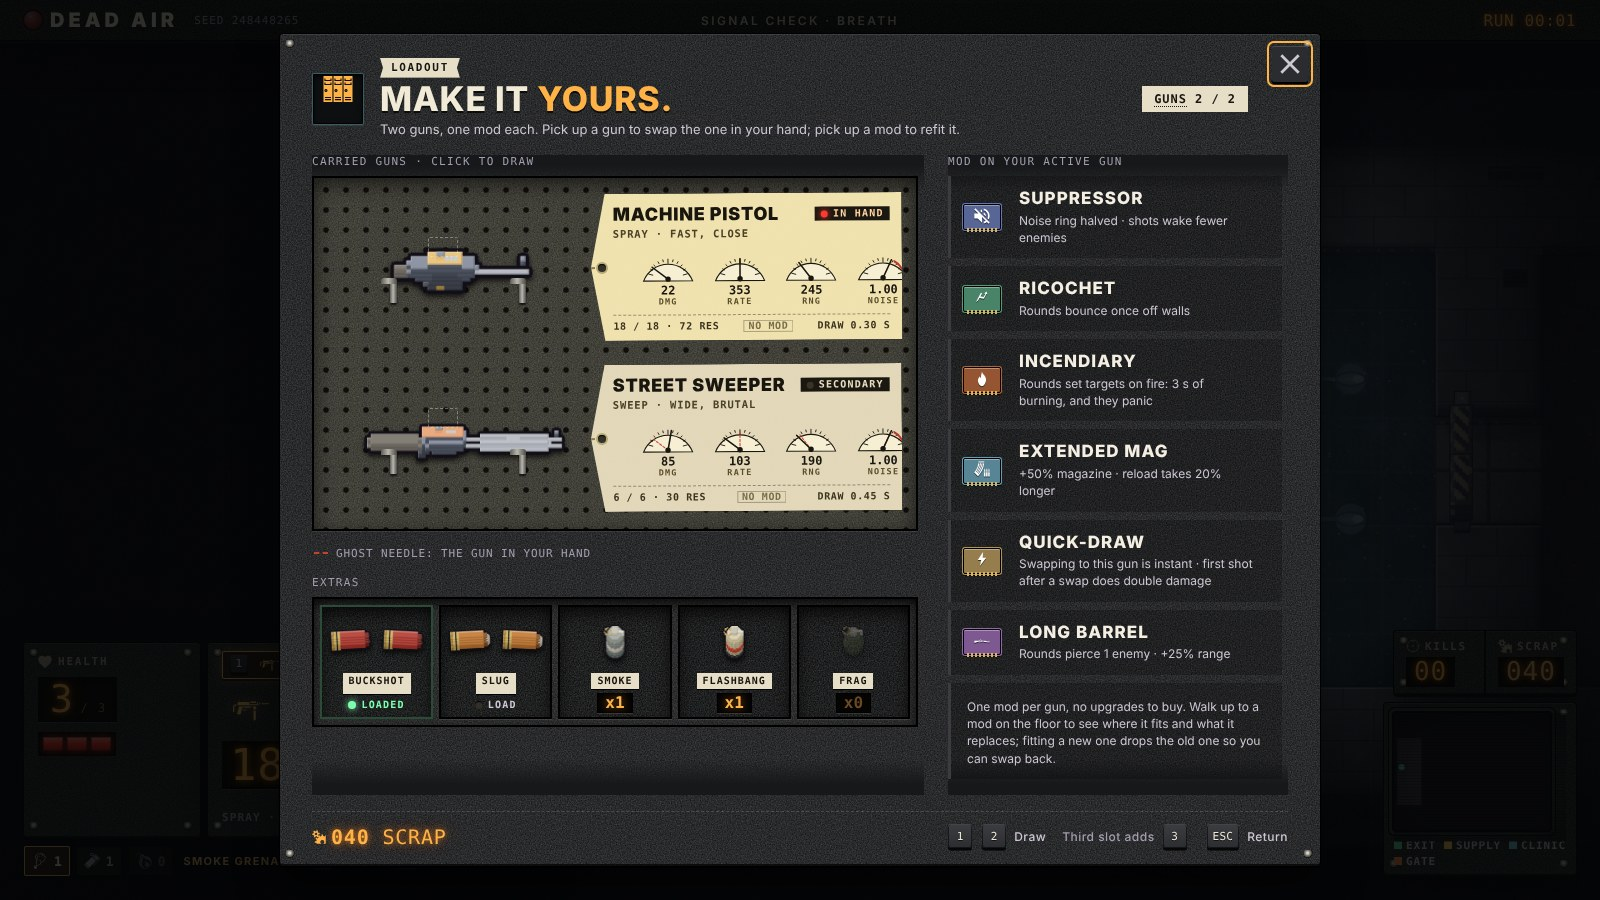
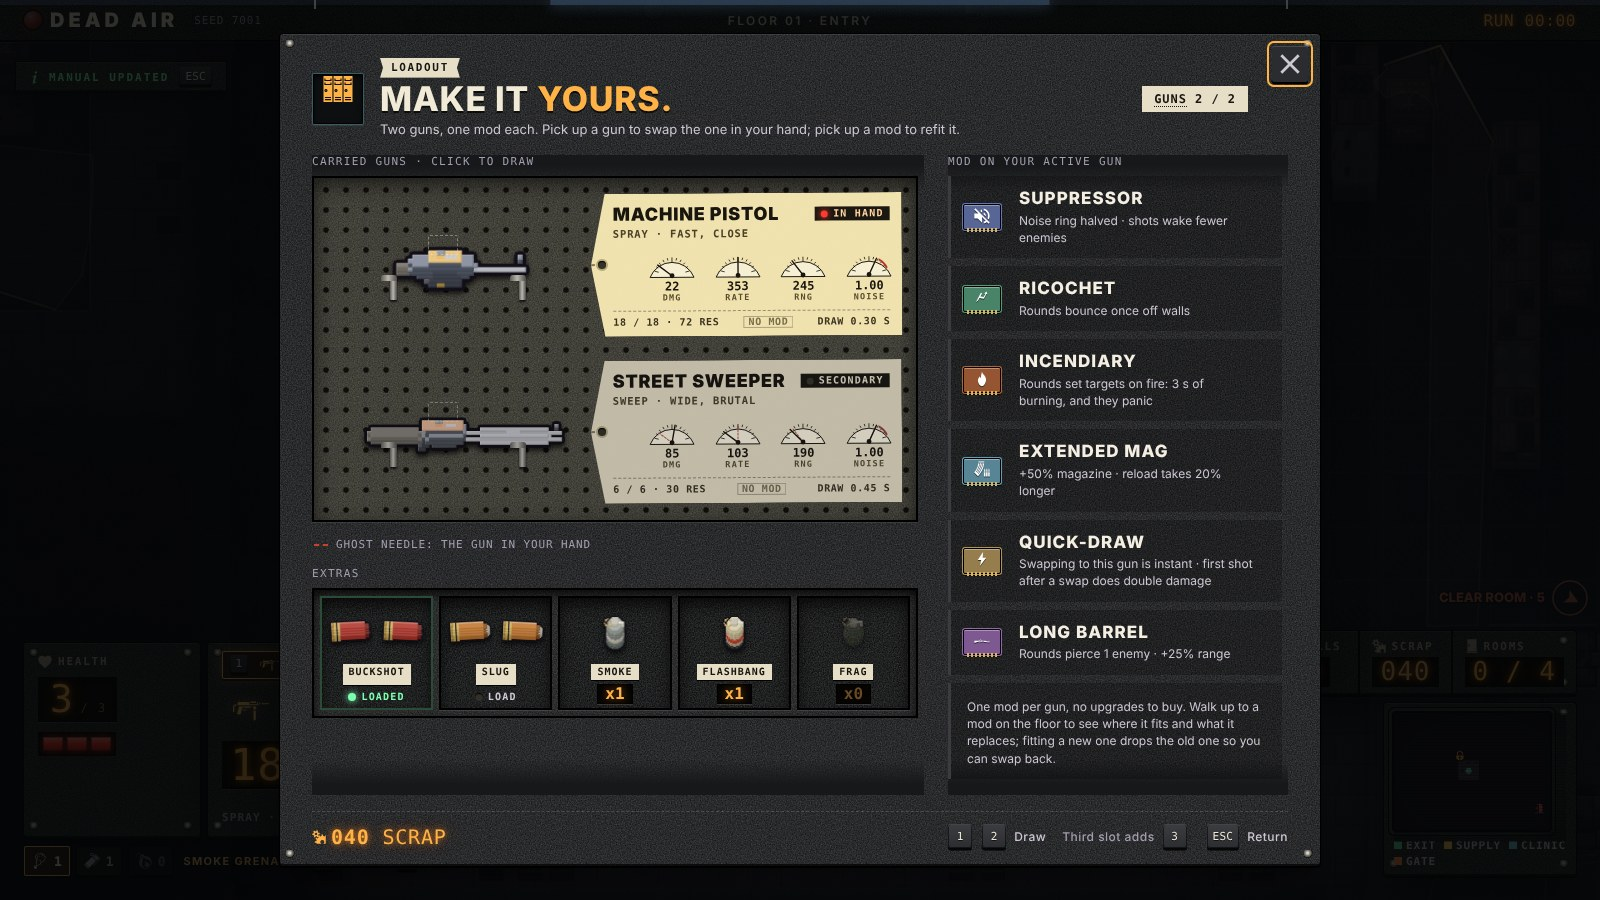
Loadout tag gauge no longer touches the tag edge, stacked pickup floaters, scale title menu at 1440p+, refresh loadout shots
Claude-Session: https://claude.ai/code/session_014duwvj8THbJ7QrWTRwuQnU

diff --git a/style.css b/style.css
@@ -397,6 +397,8 @@ input[type=range] { accent-color: var(--health); cursor: pointer; }
   display: grid; grid-template-columns: minmax(380px, 540px) minmax(320px, 420px); justify-content: center; align-content: center; gap: clamp(30px, 6vw, 110px); align-items: center; padding: 40px 5vw 56px;
   background: radial-gradient(ellipse at 72% 45%, rgba(236, 71, 103, .1), transparent 52%), linear-gradient(90deg, rgba(10, 8, 16, .66), rgba(10, 8, 16, .3) 50%, rgba(10, 8, 16, .06)); }
 #title-scene { position: absolute; inset: 0; width: 100%; height: 100%; z-index: 6; pointer-events: none; }
+/* 1440p+: scale the menu cards up so they hold the screen instead of floating in it */
+@media (min-width: 2200px) { #overlay:not(:has(#run-result:not([hidden]), #meta-panel:not([hidden]), #settings-panel:not([hidden]))) { zoom: 1.3; } }
 #overlay.show { opacity: 1; pointer-events: auto; visibility: visible; transition-delay: 0s; }
 #overlay::before { content: ""; position: absolute; inset: 0; pointer-events: none; opacity: .5; background: repeating-linear-gradient(0deg, transparent 0 3px, rgba(0, 0, 0, .13) 3px 4px); }
 .title-card { position: relative; max-height: 92vh; overflow: auto; padding: 0 var(--s-2) 6px 0; scrollbar-width: none; }

diff --git a/equip.css b/equip.css
@@ -560,9 +560,9 @@ input[type=range]:focus-visible { outline: 2px solid var(--phos); outline-offset
 .rack-legend { margin: 8px 2px 0; display: flex; align-items: center; gap: 8px; font: 500 11px var(--font-mono); letter-spacing: .08em; color: var(--text-low); text-transform: uppercase; }
 .ghost-key { display: inline-block; width: 14px; height: 0; border-top: 2px dashed #c8412f; }
 /* analog gauges: a printed dial face and a needle that swings in with some overshoot */
-.gauges { display: grid; grid-template-columns: repeat(4, minmax(0, 1fr)); gap: 2px; margin: 2px 0; padding-right: 6px; }
+.gauges { display: grid; grid-template-columns: repeat(4, minmax(0, 1fr)); gap: 2px; margin: 2px 0; padding-right: 16px; }
 .gauge { min-width: 0; position: relative; display: grid; justify-items: center; line-height: 1; }
-.gauge svg { width: 100%; max-width: 58px; height: auto; overflow: visible; }
+.gauge svg { width: 100%; max-width: 52px; height: auto; overflow: visible; }
 .gauge .face { fill: #f6efd4; stroke: #19150f; stroke-width: 1.2; }
 .gauge .ticks path { stroke: #19150f; stroke-width: 1; fill: none; }
 .gauge .red { stroke: #b8362b; stroke-width: 2.4; fill: none; }

diff --git a/fx2d.js b/fx2d.js
@@ -143,6 +143,9 @@ export class Fx {
     this.floaters.push({x: e.x + rand(-5, 5), y: e.y - e.radius - 6, tag: e, text, sum: Math.round(damage), age: 0, life: 1.05, size: sizeFor(damage, killed), color: killed ? '#ffd86e' : '#fff4e8', vy: -40, kill: killed});
   }
   floater(x, y, text, color = '#fff', size = 13, life = 1.1) {
+    // pickups collected together stack instead of printing over each other
+    let guard = 0;
+    while (guard++ < 4 && this.floaters.some((f) => !f.tag && f.age < 0.6 && Math.abs(f.x - x) < 64 && Math.abs(f.y - y) < 14)) y -= 17;
     this.floaters.push({x, y, text, sum: 0, age: 0, life, size: Math.max(size, 16), color, vy: -30});
   }
   // Scrap pickups merge into one "+N SCRAP" pop (anything picked up within MERGE_S of the last one joins it),
